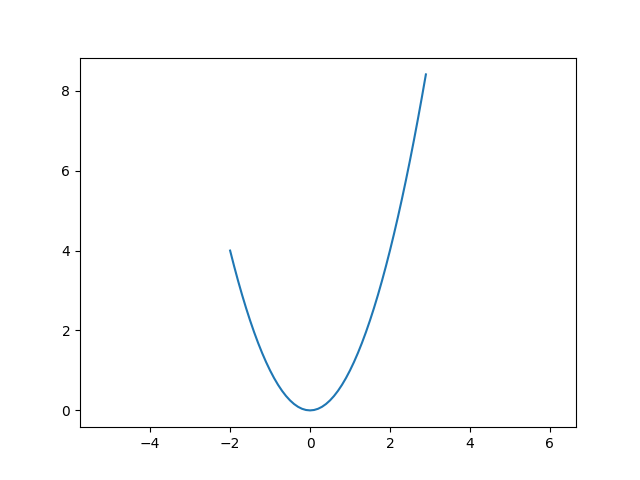
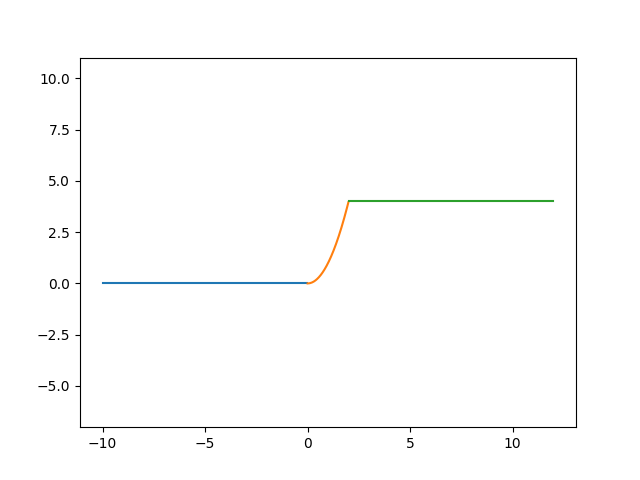
gdxshx

diff --git a/task_2dop.py b/task_2dop.py
@@ -1,20 +1,24 @@
 import matplotlib.pyplot as plt
 import numpy as np
 
-def function_plotter(a=-2, b =3):
-    x = np.arange(-2, 3, 0.1)
-    y_vse= []
-    for i in x:
-        if i < a:
-            y = a**2
-        elif i >= a and i <= b:
-            y = i**2
-        else:
-            y = b**2
-        y_vse.append(y)
-    plt.plot(x, y_vse)
+
+def function_plotter(a=-2, b=3):
+    x0 =  np.arange(a-10, a, 0.01)
+    x1 = np.arange(a, b, 0.01)
+    x2 = np.arange(b, b+10, 0.01)
+
+    y0 = np.ones(len(x0)) * a**2
+    y1 = x1**2
+    y2 = np.ones(len(x2)) * b**2
+
+    plt.plot(x0, y0)
+    plt.plot(x1, y1)
+    plt.plot(x2, y2)
+
     plt.axis('equal')
     plt.savefig('task_2dop.png')
     plt.close()
-function_plotter(a=-10, b =10)
+
+
+function_plotter(a=0, b =2)
     

diff --git a/task_3dop.py b/task_3dop.py
@@ -2,8 +2,8 @@ import matplotlib.pyplot as plt
 import numpy as np
 
 def lesenka_plotter(N=5):
-    x = np.arange(N, N+1, 0.1)
-    y = x
+    x = np.arange(0, N+1, 0.01)
+    y = x // 1
     plt.plot(x, y)
     plt.axis('equal')
     plt.savefig('task_3dop.png')
